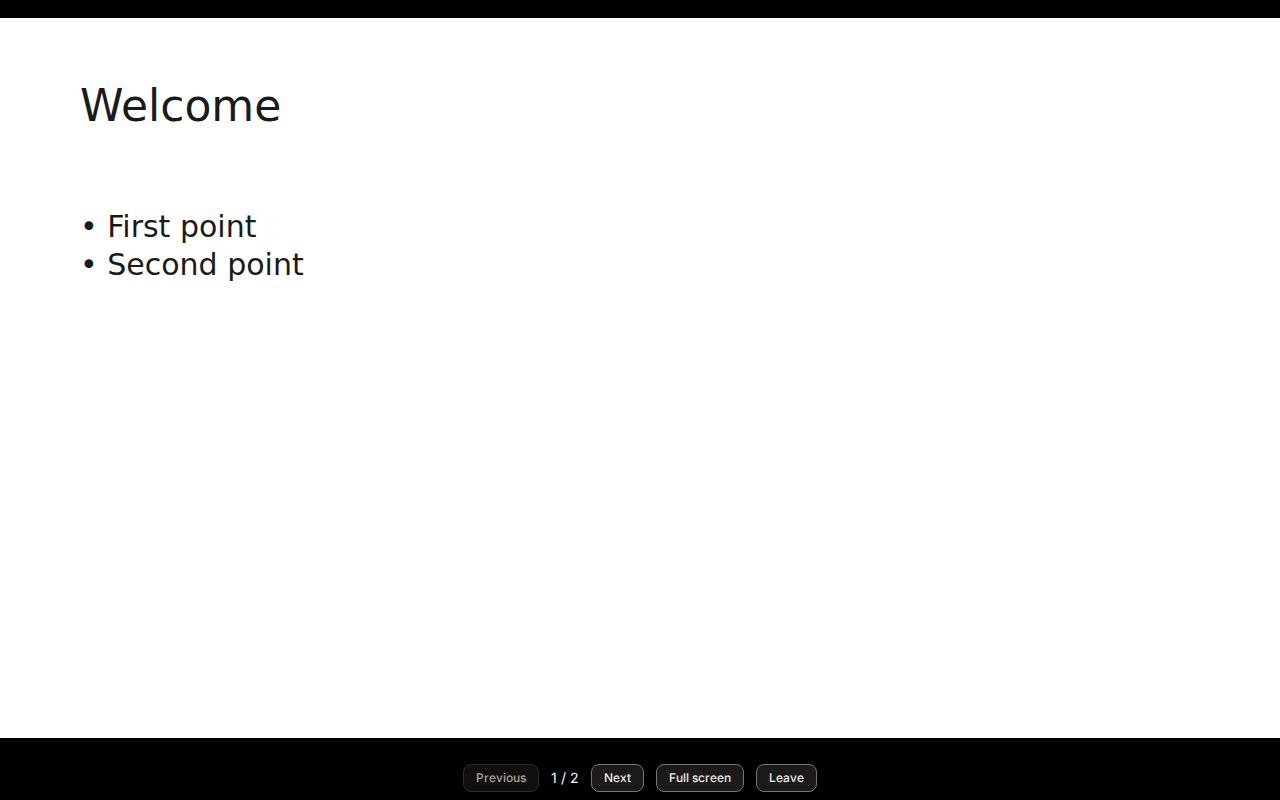
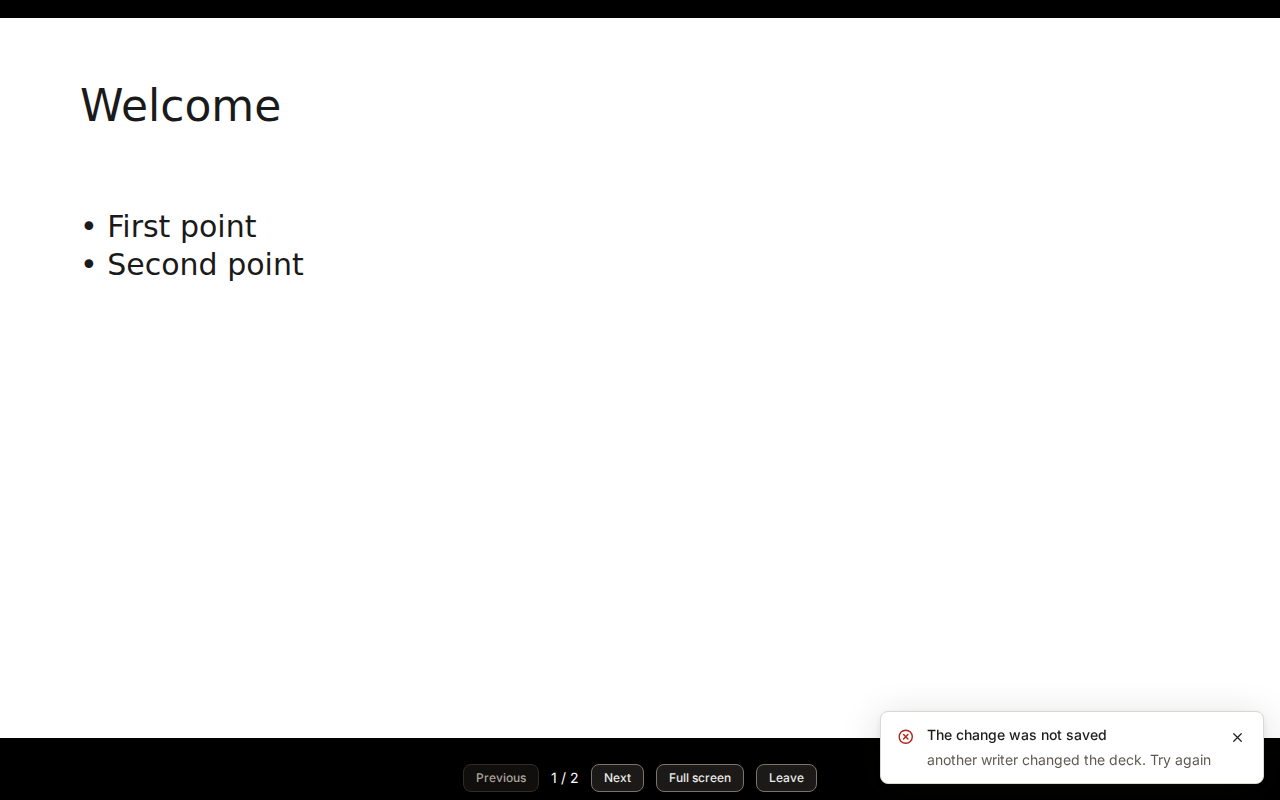
Fix review findings on the UI tests
Fix a CSS escape that turned the agent tag on the canvas into
"gent edit", and test the tag text. Wait for the save in the keyboard
test instead of a fixed pause. Check axe in more states: the sign-in
error, a field error, the error toast, and the viewer.

Write screenshots only with npm run e2e:screenshots, so ci:local keeps
the tree clean. Keep the Worker state in one folder that a teardown
removes.

Changed region(s): [[0.6875, 0.9062, 1.0, 1.0]]

diff --git a/e2e/views.spec.ts b/e2e/views.spec.ts
@@ -1,5 +1,5 @@
 import { expect, test } from "@playwright/test";
-import { AGENT } from "../playwright.config.js";
+import { AGENT, VIEWER } from "../playwright.config.js";
 import { agentDeck, api, checkView, signIn } from "./helpers.js";
 
 const SCHEMES = ["light", "dark"] as const;
@@ -8,6 +8,10 @@ const SCHEMES = ["light", "dark"] as const;
 test("every view passes axe WCAG 2.2 AA in light and dark, and a screenshot is kept", async ({ page, baseURL }) => {
   await page.goto("/");
   for (const scheme of SCHEMES) await checkView(page, "sign-in", scheme);
+  await page.getByLabel("Access token").fill("not-a-real-token-0123456789-abcdefghij");
+  await page.getByRole("button", { name: "Sign in" }).click();
+  await expect(page.getByRole("alert")).toContainText("Send a valid bearer token.");
+  for (const scheme of SCHEMES) await checkView(page, "sign-in-error", scheme);
 
   await signIn(page);
   await expect(page.getByRole("heading", { name: "No decks yet" })).toBeVisible();
@@ -25,6 +29,17 @@ test("every view passes axe WCAG 2.2 AA in light and dark, and a screenshot is k
   await page.getByRole("button", { name: /^Text box 1/ }).click();
   for (const scheme of SCHEMES) await checkView(page, "editor", scheme);
 
+  // The error states of the editor: a field that is not a number, and a save that fails.
+  await page.getByLabel("X", { exact: true }).fill("");
+  await expect(page.getByText("Type a whole number.")).toBeVisible();
+  for (const scheme of SCHEMES) await checkView(page, "editor-field-error", scheme);
+  await page.getByLabel("X", { exact: true }).fill("80");
+  await page.route("**/elements/*", (route) => route.fulfill({ status: 503, json: { error: { code: "STORE_BUSY", message: "another writer changed the deck. Try again" } } }));
+  await page.getByRole("button", { name: "Save text" }).click();
+  await expect(page.locator(".ad-toast__title", { hasText: "The change was not saved" })).toBeVisible();
+  for (const scheme of SCHEMES) await checkView(page, "editor-toast", scheme);
+  await page.unroute("**/elements/*");
+
   await page.goto("/#/deck/empty");
   await expect(page.getByRole("heading", { name: "This deck has no slides" })).toBeVisible();
   for (const scheme of SCHEMES) await checkView(page, "editor-empty", scheme);
@@ -36,4 +51,12 @@ test("every view passes axe WCAG 2.2 AA in light and dark, and a screenshot is k
   await page.goto(`/#/deck/${id}/present/1`);
   await expect(page.locator("main.present p[role=status]")).toContainText("Slide 1 of 2");
   for (const scheme of SCHEMES) await checkView(page, "present", scheme);
+
+  // A viewer sees the read-only editor.
+  await page.goto("/");
+  await page.getByRole("button", { name: "Sign out" }).click();
+  await signIn(page, VIEWER);
+  await page.goto(`/#/deck/${id}`);
+  await expect(page.getByText("This token can read decks. It cannot change them.")).toBeVisible();
+  for (const scheme of SCHEMES) await checkView(page, "editor-viewer", scheme);
 });

diff --git a/playwright.config.ts b/playwright.config.ts
@@ -6,13 +6,16 @@ import { defineConfig } from "@playwright/test";
 // The tests run against the real Worker under `wrangler dev`. Run `npm run build` first: the Worker serves dist/ui.
 // The flows and the views each get their own Worker and their own state, so the empty deck list is really empty.
 const PORT = Number(process.env.E2E_PORT ?? 18911);
+// The runner makes the state folder once. Its workers read the same name from the environment. The teardown removes it.
+process.env.E2E_STATE ??= mkdtempSync(join(tmpdir(), "slides-ui-"));
+const state = process.env.E2E_STATE;
 export const HUMAN = "human-token-0123456789-abcdefghij";
 export const AGENT = "agent-token-0123456789-abcdefghij";
 export const VIEWER = "viewer-token-0123456789-abcdefghij";
 const tokens = `${HUMAN}=human:ada,${AGENT}=agent_of_human:bot,${VIEWER}=human:eve;viewer`;
 
 const worker = (port: number) => ({
-  command: `npx wrangler dev --port ${port} --ip 127.0.0.1 --inspector-port ${port + 1} --persist-to ${mkdtempSync(join(tmpdir(), "slides-ui-"))} --var SLIDES_REGION:unknown --var '${`SLIDES_TOKENS:${tokens}`}'`,
+  command: `npx wrangler dev --port ${port} --ip 127.0.0.1 --inspector-port ${port + 1} --persist-to ${join(state, String(port))} --var SLIDES_REGION:unknown --var '${`SLIDES_TOKENS:${tokens}`}'`,
   url: `http://127.0.0.1:${port}/health`,
   reuseExistingServer: false,
   timeout: 120_000,
@@ -23,6 +26,7 @@ export default defineConfig({
   testDir: "e2e",
   timeout: 90_000,
   workers: 1,
+  globalTeardown: "./e2e/teardown.ts",
   reporter: [["list"]],
   use: { viewport: { width: 1280, height: 800 }, screenshot: "off", trace: "off" },
   projects: [

diff --git a/e2e/flows.spec.ts b/e2e/flows.spec.ts
@@ -46,11 +46,13 @@ test("the keyboard moves an element, and the move is saved", async ({ page }) =>
   await textBox(page, 1).focus();
   await page.keyboard.press("Enter");
   await expect(page.getByLabel("X", { exact: true })).toHaveValue("80");
+  // The save waits until the keys stop, then one PATCH carries the last place.
+  const saved = page.waitForResponse((r) => r.request().method() === "PATCH" && r.url().includes("/elements/") && r.ok());
   for (let i = 0; i < 3; i++) await page.keyboard.press("ArrowRight");
   await page.keyboard.press("Shift+ArrowDown");
   await expect(page.getByLabel("X", { exact: true })).toHaveValue("110");
   await expect(page.getByLabel("Y", { exact: true })).toHaveValue("61");
-  await page.waitForTimeout(800);
+  await saved;
   await page.reload();
   await textBox(page, 1).click();
   await expect(page.getByLabel("X", { exact: true })).toHaveValue("110");
@@ -80,6 +82,9 @@ test("presence shows an agent in the room, and an agent edit has a mark", async 
   await expect(page.getByText("Live", { exact: true })).toBeVisible();
   await expect(page.getByText("Agent edit").first()).toBeVisible();
   await expect(page.getByRole("button", { name: /^Text box 1.*edited by an agent/ })).toBeVisible();
+  // The canvas tag is drawn by CSS, so read its text from the style. A bad escape there once made it "gent edit".
+  const tag = await page.locator(".slide-el.is-agent").first().evaluate((el) => getComputedStyle(el, "::after").content);
+  expect(tag).toBe('"\u2699\u00a0Agent edit"');
 
   const other = await (await browser.newContext({ baseURL })).newPage();
   await signIn(other, AGENT);

diff --git a/e2e/helpers.ts b/e2e/helpers.ts
@@ -30,11 +30,14 @@ export async function agentDeck(base: string | undefined, title: string): Promis
 
 export const TAGS = ["wcag2a", "wcag2aa", "wcag21a", "wcag21aa", "wcag22aa"];
 
-/** Fails on any WCAG 2.2 AA violation that axe can find, and keeps a screenshot as a review artifact. */
+/** Fails on any WCAG 2.2 AA violation that axe can find, and, when UPDATE_SCREENSHOTS=1, keeps a screenshot as a review artifact. */
 export async function checkView(page: Page, name: string, scheme: "light" | "dark") {
   await page.emulateMedia({ colorScheme: scheme, reducedMotion: "reduce" });
-  await page.waitForTimeout(250);
+  // Wait until the page has taken the scheme and painted, so axe never reads colors half way through a change.
+  await page.waitForFunction((dark) => matchMedia("(prefers-color-scheme: dark)").matches === dark, scheme === "dark");
+  await page.evaluate(() => new Promise((done) => requestAnimationFrame(() => requestAnimationFrame(done))));
   const { violations } = await new AxeBuilder({ page }).withTags(TAGS).analyze();
   expect(violations.map((v) => `${v.id}: ${v.nodes.map((n) => n.target.join(" ")).join(", ")}`)).toEqual([]);
-  writeFileSync(`docs/screenshots/${name}-${scheme}.png`, await page.screenshot());
+  // The images change a little from run to run, so only `npm run e2e:screenshots` writes them.
+  if (process.env.UPDATE_SCREENSHOTS === "1") writeFileSync(`docs/screenshots/${name}-${scheme}.png`, await page.screenshot());
 }

diff --git a/ui/app.css b/ui/app.css
@@ -32,7 +32,7 @@ h2 { font-size: var(--ad-font-size-lg); margin: 0 0 var(--ad-space-2); }
 .slide-el[role="button"]:hover { outline: 1px dashed var(--ad-color-accent); }
 .slide-el.is-selected { outline: 2px solid #0b5cad; box-shadow: inset 0 0 0 4px #fff, inset 0 0 0 6px #0b5cad; }
 .slide-el.is-agent { outline: 2px dashed #5b3fc8; outline-offset: -2px; }
-.slide-el.is-agent::after { content: "\2699\00a0Agent edit"; position: absolute; top: 0; right: 0; font: 600 1.5cqw/1.4 var(--ad-font-family-sans); background: #3b2a8f; color: #fff; padding: 0 0.8cqw; }
+.slide-el.is-agent::after { content: "\2699\00a0 Agent edit"; position: absolute; top: 0; right: 0; font: 600 1.5cqw/1.4 var(--ad-font-family-sans); background: #3b2a8f; color: #fff; padding: 0 0.8cqw; }
 .slide-el:focus-visible { outline: 3px solid #0b5cad; box-shadow: 0 0 0 2px #fff, 0 0 0 5px #0b5cad; z-index: 1; }
 .slide-text { line-height: 1.25; display: flex; flex-direction: column; }
 .slide-list .slide-line::before { content: "\2022\00a0"; }

diff --git a/e2e/teardown.ts b/e2e/teardown.ts
@@ -1,0 +1,6 @@
+import { rmSync } from "node:fs";
+
+/** Removes the state of the two Workers. */
+export default function teardown() {
+  if (process.env.E2E_STATE) rmSync(process.env.E2E_STATE, { recursive: true, force: true });
+}

diff --git a/CHANGELOG.md b/CHANGELOG.md
@@ -10,7 +10,7 @@ This file lists the notable changes to this project, by version.
   mode, live presence, and an agent mark on slides that an agent edited. `npm run build` writes it to `dist/ui`.
 - `GET /api/v1/slides/decks` and `client.listDecks()` list the decks, newest edit first, with the last editor of each. They page with a cursor. A deck that nobody edits after this version is not listed until its next edit.
 - `npm run e2e`: Playwright tests of the UI against `wrangler dev`, an axe WCAG 2.2 AA check of each view
-  in light and dark, and screenshots in `docs/screenshots`. `ci:local` and the CI workflow run them.
+  in light and dark, and `npm run e2e:screenshots` for the screenshots in `docs/screenshots`. `ci:local` and the CI workflow run them.
 - The room route accepts the token as the WebSocket subprotocol `bearer.<token>`, for browsers.
 
 ## 0.4.0 - 2026-10-29

diff --git a/README.md b/README.md
@@ -141,7 +141,7 @@ npm run e2e
 
 They create a deck, add a slide, edit text, reload, and present with the arrow keys. They also check
 the keyboard, presence between two browsers, the agent mark, a failed save, and a viewer. An axe check
-(WCAG 2.2 AA) runs on every view in light and dark. The same run writes the screenshots in
+(WCAG 2.2 AA) runs on every view in light and dark, including the error states and the viewer. `npm run e2e:screenshots` runs the same tests and writes the screenshots in
 [docs/screenshots](docs/screenshots), for review. An axe check finds only part of the problems, so a person
 should still check the keyboard and a screen reader.
 
